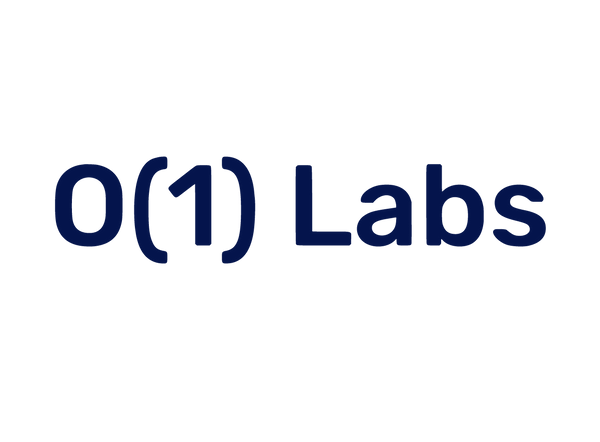
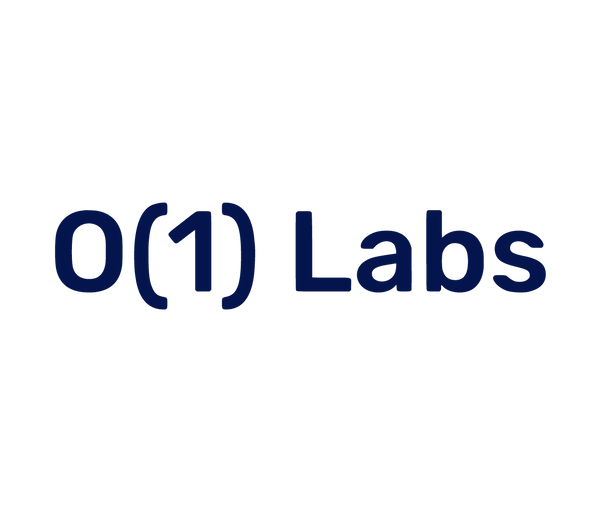
fix: image size and font size section title

diff --git a/src/pages/HomePage.tsx b/src/pages/HomePage.tsx
@@ -195,7 +195,7 @@ function HomePage() {
       <div className="flex flex-col text-dark-purple py-10">
         <div className="container mx-auto flex flex-col gap-8">
           <div className="text-2xl font-bold">
-            Backed by the Top Names in Blockchain and zk!
+            Backed by the Top Names in Blockchain and ZK
           </div>
           <div className="flex flex-row justify-center items-center flex-wrap px-28 gap-y-4">
             <div className="basis-1/2 flex justify-between">
@@ -389,7 +389,7 @@ function HomePage() {
           backgroundRepeat: "no-repeat",
         }}
       >
-        <div className="font-bold text-dark-purple text-3xl font-Verdana">
+        <div className="font-bold text-dark-purple text-2xl font-Verdana">
           Get Involved
         </div>
 
